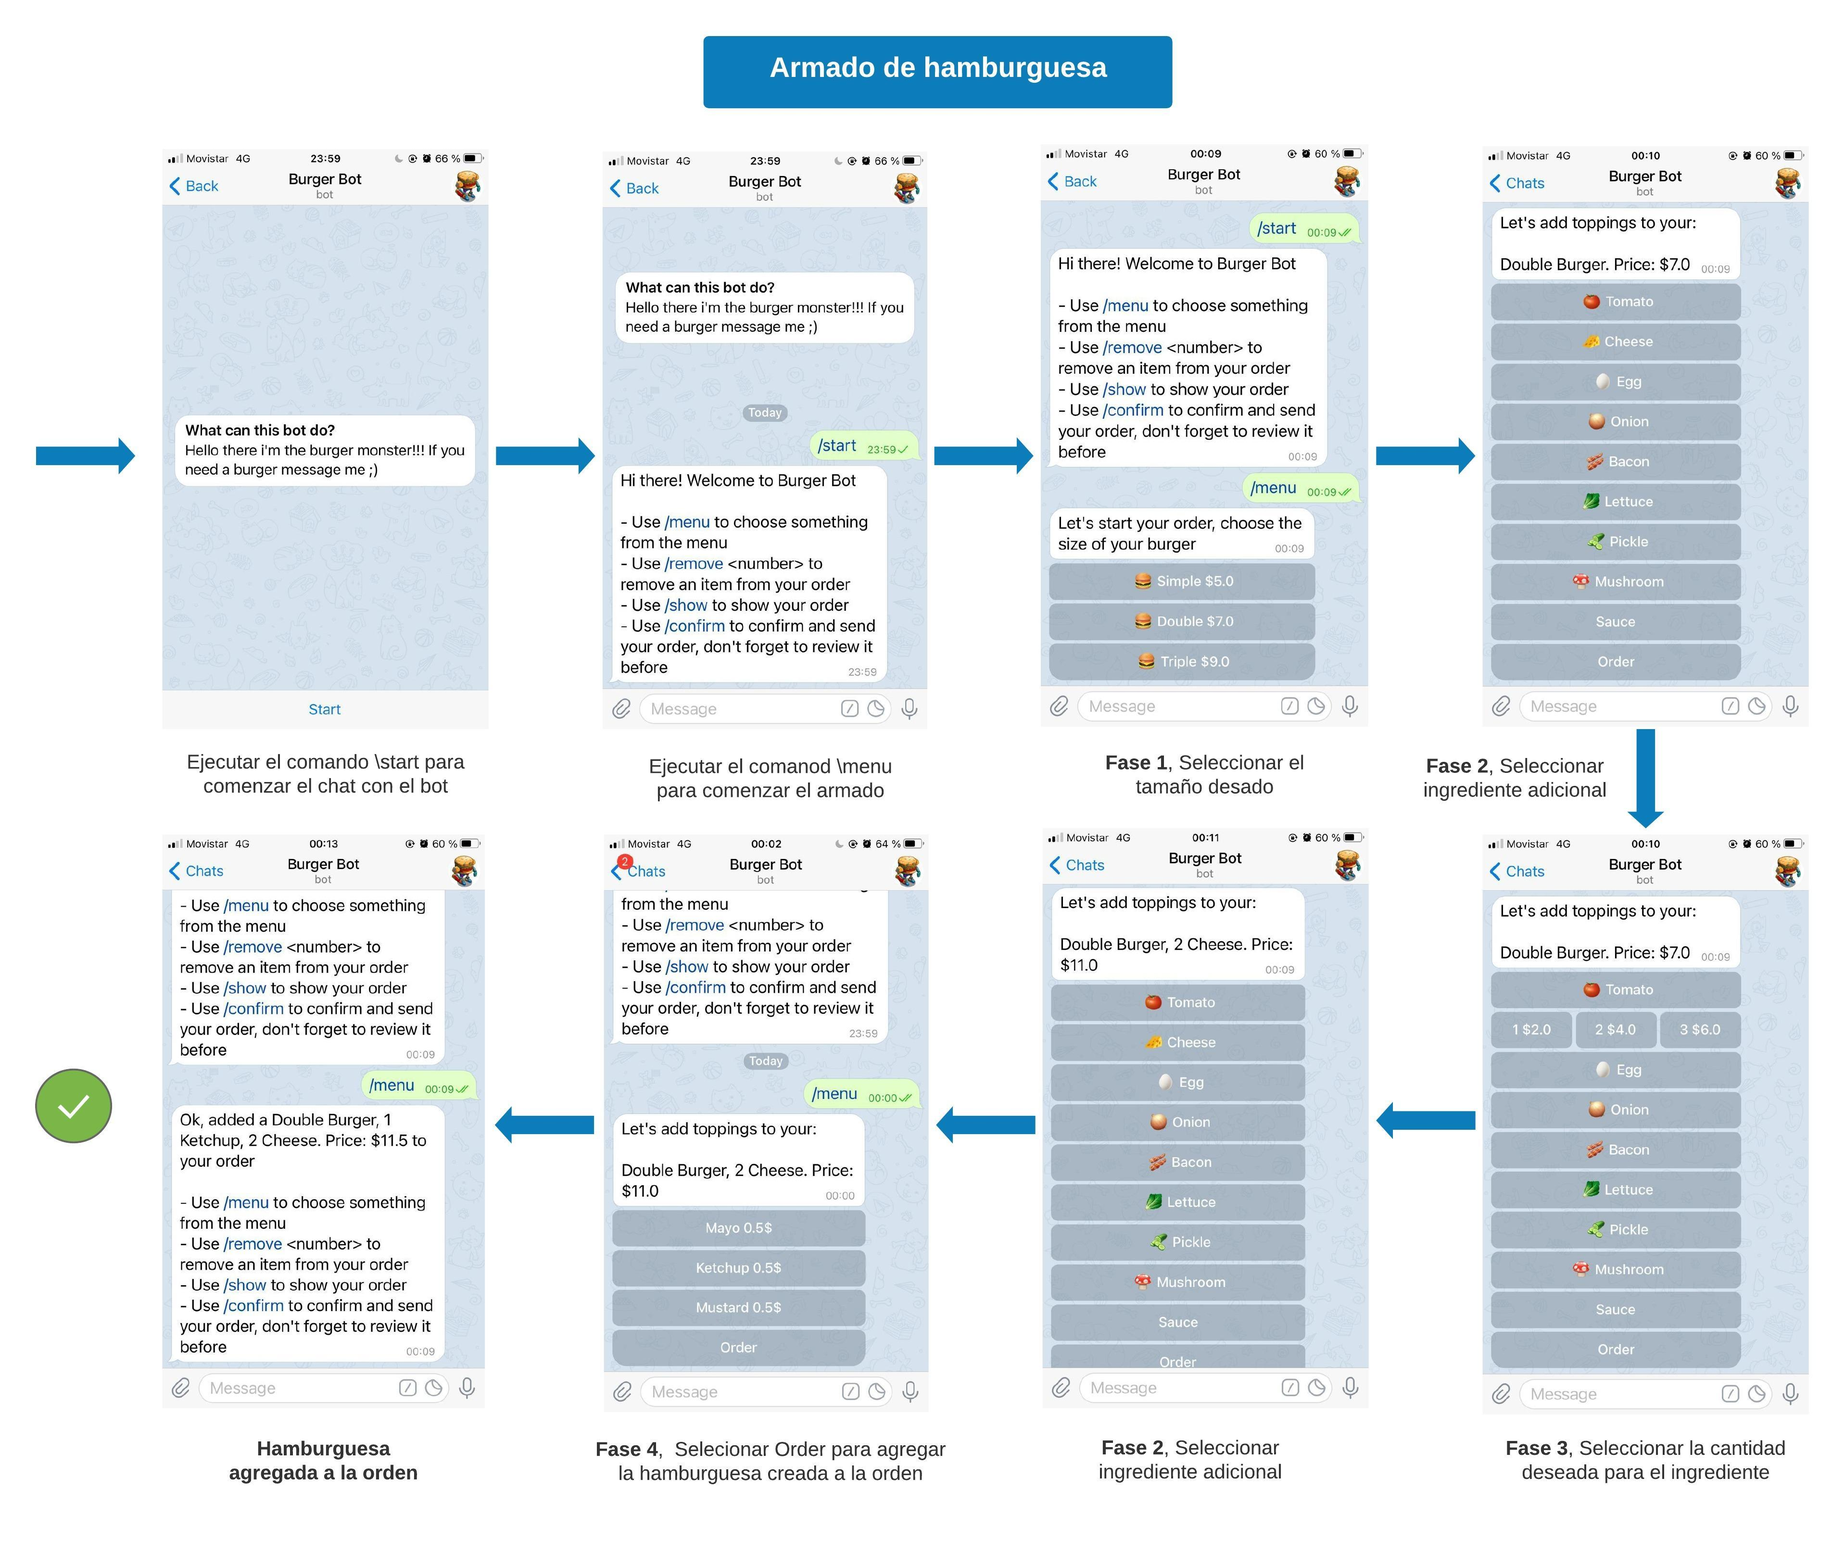
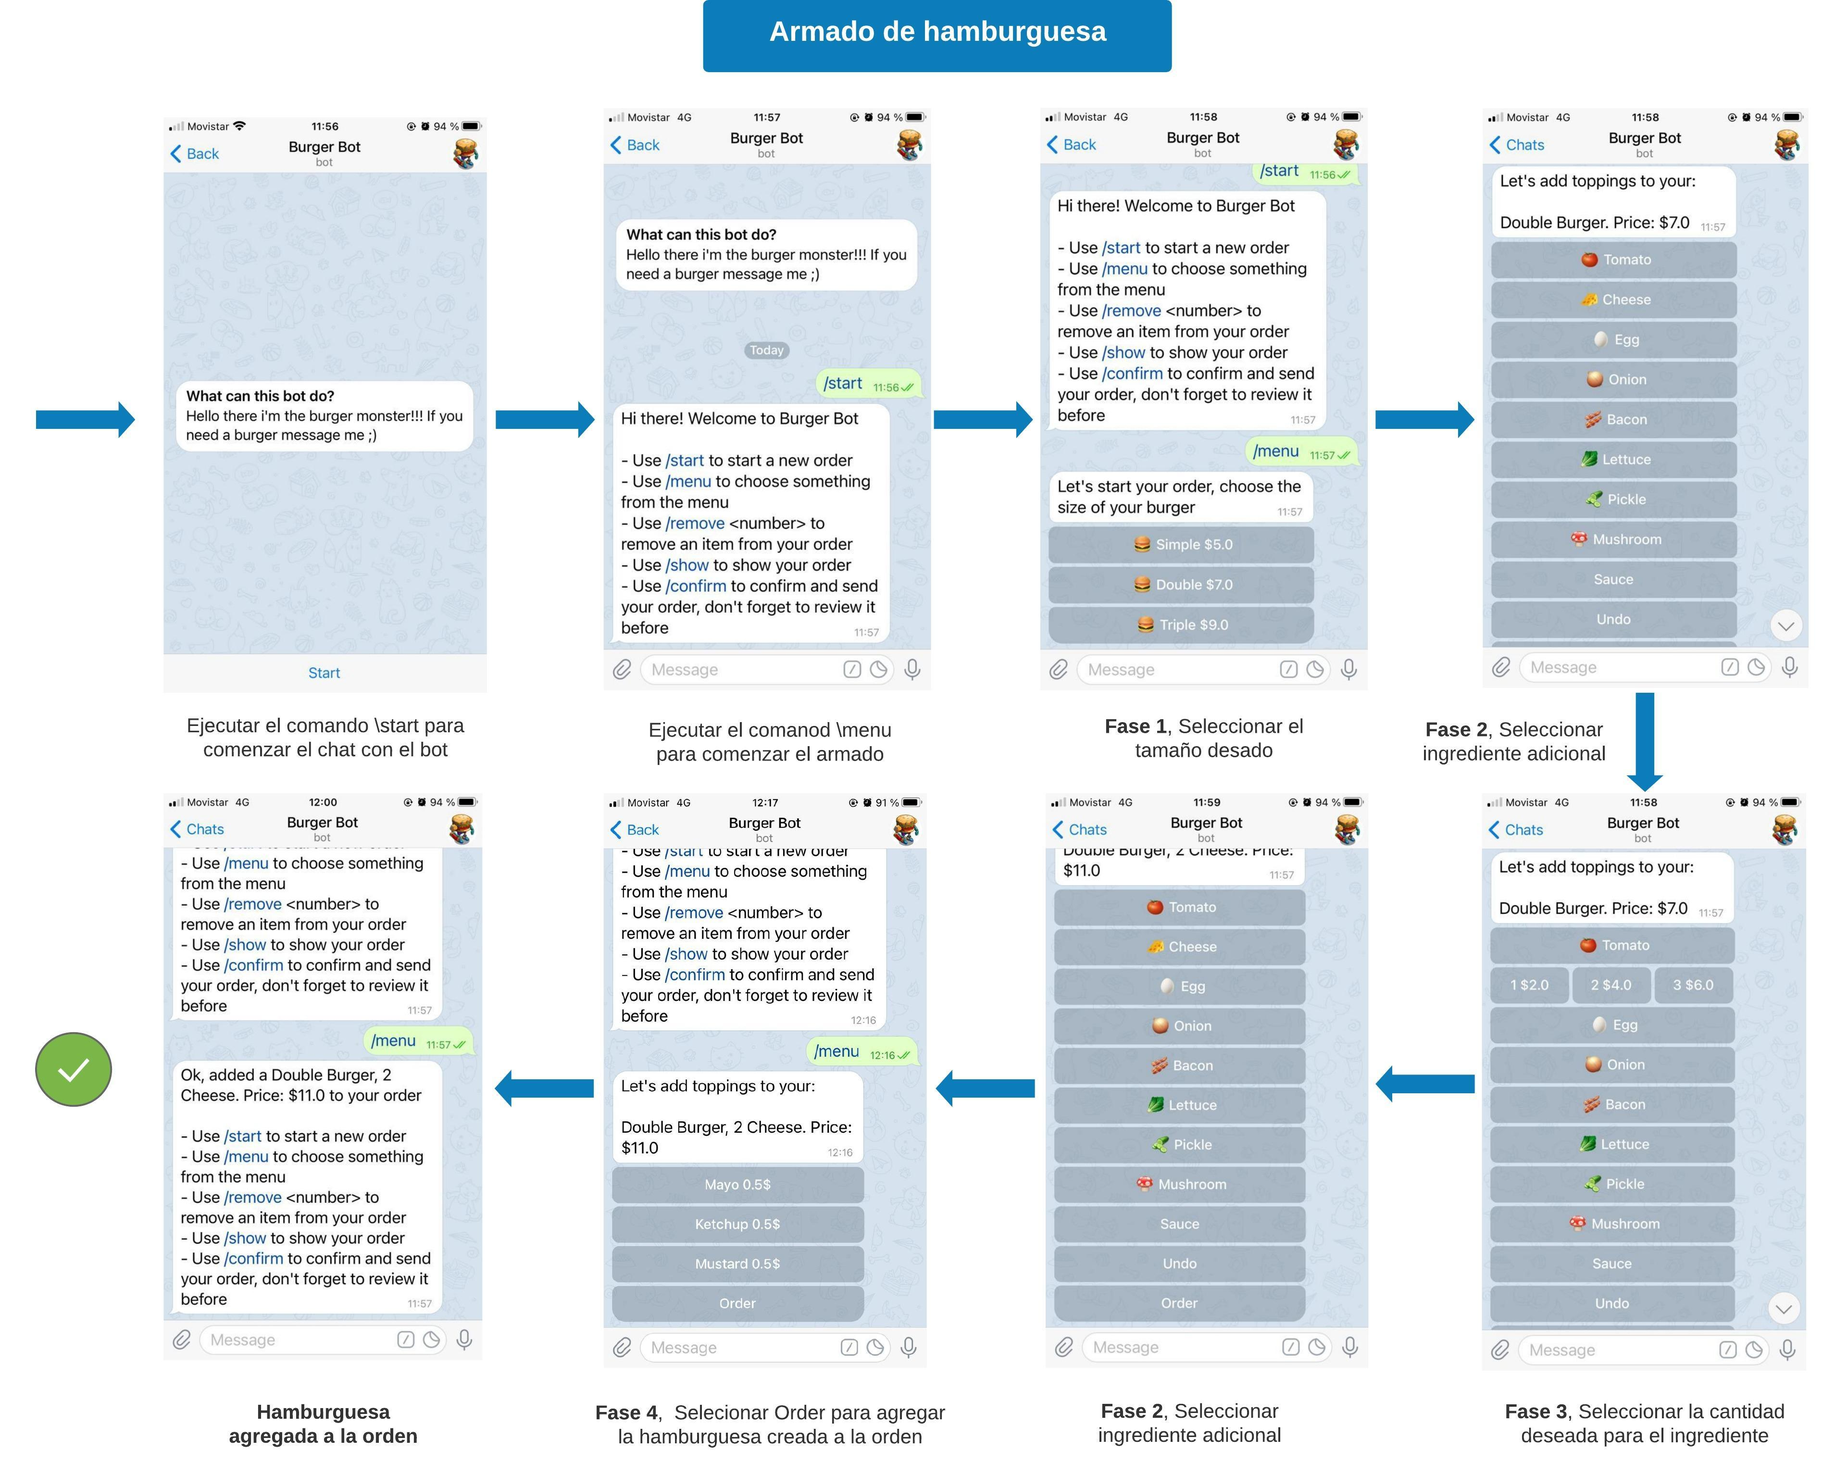
Updated Informe.tex

Changed region(s): [[0.0, 0.0, 0.9927, 0.9909], [0.0931, 0.0619, 0.2792, 0.1548], [0.0, 0.6812, 0.062, 0.7741]]

diff --git a/Informe/Informe.tex b/Informe/Informe.tex
@@ -43,6 +43,7 @@ breaklines=true,        % sets automatic line breaking
 breakatwhitespace=false,    % sets if automatic breaks should only happen at whitespace
 escapeinside={\%*}{*)}          % if you want to add a comment within your code
 }
+\setlength{\parindent}{0in}
 \usepackage{titling}
 \newcommand{\subtitle}[1]{%
 	\posttitle{%
@@ -94,7 +95,7 @@ escapeinside={\%*}{*)}          % if you want to add a comment within your code
 
 El contexto actual de pandemia genera una necesidad en la sociedad de reinventarse. En el caso particular de la hamburguesería Arredondo para disminuir la circulación y contacto entre personas en la sucursal se optó por tomar los pedidos de los clientes vía WhatsApp. 
 \\
-La solución adoptada necesita de la adquisición de por lo menos un número telefónico y un smartphone, el cual sería utilizado por un empleado para tomar los pedidos y hacer entrega de la comanda a la cocina. La disponibilidad del mismo es esencial para brindar un buen servicio. 
+La solución adoptada necesita de la adquisición de por lo menos una línea  telefónica y un smartphone, el cual sería utilizado por un empleado para tomar los pedidos y hacer entrega de la comanda a la cocina. La disponibilidad del mismo es esencial para brindar un buen servicio. 
 \\
 El enfoque del trabajo consiste en tomar la propuesta de Arredondo y convertirla en una de mayor eficiencia en términos de costo, recursos, tiempo, empleados y que maximice las ventas.  
 
@@ -115,7 +116,7 @@ Es importante que tanto los clientes jóvenes como los adultos que atienden la h
 \\\\
 Para comenzar a pedir hamburguesas se necesita tener instalada la aplicación de mensajería Telegram. Los comandos del bot se ejecutan enviando un mensaje de texto que comience con “\textbackslash”.
 \\
-Dentro de la aplicación comenzamos una conversación con el chatbot y para realizar pedidos nuevos utilizaremos el comando  \color{blue}\uline{\textbackslash start}\color{black}.
+Dentro de la aplicación comenzamos una conversación con el chatbot y realizamos nuevos pedidos utilizando el comando  \color{blue}\uline{\textbackslash start}\color{black}.
 \begin{figure}[H]
 	\centering
 	\includegraphics[width=1.0\linewidth]{diagrama-flujo.jpeg}
@@ -132,7 +133,7 @@ A continuación detallaremos las fases del proceso de armado de la hamburguesa.
 	
 	\item \textbf{Fase 1}: El primer paso consiste en seleccionar el tamaño deseado para nuestra hamburguesa, puede ser simple, doble o triple.
 	
-	\item \textbf{Fase 2}: Una vez seleccionado el tamaño de la hamburguesa procedemos a elegir los ingredientes adicionales, entre ellos: queso, pepinos, tomate, lechuga, salsa, etc. 
+	\item \textbf{Fase 2}: Una vez seleccionado el tamaño de la hamburguesa procedemos a elegir los ingredientes adicionales, entre ellos: queso, pepinos, tomate, lechuga, salsa, etc. O también deshacer la última operación.
 	
 	\item \textbf{Fase 3}: Una vez seleccionado el ingrediente deseado procedemos a elegir la cantidad deseada del mismo. Una vez seleccionada la cantidad volveremos a la Fase 2, lo cual nos permite seguir agregando otros ingredientes.
 	
@@ -166,7 +167,7 @@ el cual aporta ayuda sobre los distintos comandos y cómo comenzar un pedido.
 
 \subsection{Aplicación Web}
 
-El personal del restaurante podrá visualizar y mantener registro de los pedidos de los clientes accediendo a la aplicación web disponible en la red local.
+El personal del restaurante podrá visualizar y mantener registro de los pedidos de los clientes accediendo a la aplicación web.
 \\
 Bajo la sección “Pending Orders” se podrá realizar un seguimiento de las órdenes enviadas por los clientes que aún no fueron completadas. Las mismas se encuentran ordenadas desde la más antigua a la más reciente, dándole prioridad a aquellos que realizaron antes su pedido.
 
@@ -219,48 +220,69 @@ Una hamburguesa puede ser simple, doble o triple. A su vez se le pueden agregar 
 
 \subsection{Chatbot	}
 
-A la hora de implementar el chatbot se tuvo decidir entre las plataformas WhatsApp y Telegram. Por un lado WhatsApp es la aplicación de mensajería más adoptada a nivel global y la que utiliza Arredondo para comunicarse con sus clientes. A diferencia, Telegram no es una aplicación popular, sin embargo telegram-bot-simple \cite{telegram-bot-simple} es una librería escrita en Haskell basada en la Telegram Bot API \cite{telegram-bot-api} que nos permite crear bots para Telegram. Por estas razón se optó por desarrollar el chatbot en Telegram.
+A la hora de implementar el chatbot se tuvo decidir entre las plataformas WhatsApp y Telegram. Por un lado WhatsApp es la aplicación de mensajería más adoptada a nivel global y la que utiliza Arredondo para comunicarse con sus clientes.
 \\
-Telegram-bot-simple requiere de definir dos tipos en Haskell. Uno al cual nombramos \textbf{BotModel} que representa el estado de una conversación del bot. El otro representa las acciones que ejecuta el bot, a el cual nombramos \textbf{Action}.
+A diferencia, Telegram no es una aplicación popular, sin embargo telegram-bot-simple \cite{telegram-bot-simple} es una librería desarrollada en Haskell basada en la Telegram Bot API \cite{telegram-bot-api} que nos permite crear bots para Telegram. Por estas razón se optó por desarrollar el chatbot en Telegram.
+\\
+Telegram-bot-simple posee constructor \textbf{BotApp} parametrizada por dos tipos \textbf{model} y \textbf{action} para crear bots.
 
 \begin{minted}{haskell}
+data BotApp model action = BotApp
+{	 botInitialModel :: model
+	, botAction       :: Telegram.Update -> model -> Maybe action
+	, botHandler      :: action -> model -> Eff action model
+	, botJobs         :: [BotJob model action]
+}
+\end{minted}
+
+\begin{itemize}
+	\item \textbf{botInitialModel}: Estado inicial del bot (\textbf{model}).
+	\item \textbf{botAction}: Toma updates de Telegram y los convierte en acciones (\textbf{action}).
+	\item \textbf{botHandler}: Maneja las acciones emitidas (\textbf{action}), retorna un nuevo estado de conservación del bot (\textbf{model}) y la próxima acción a realizar.
+	\item \textbf{botJobs}: Lista de trabajos a ejecutar según un cronograma. No utilizaremos esta funcionalidad.
+\end{itemize}
+
+Entonces se definieron dos nuevos tipos: \textbf{BotModel} que representa el estado de una conversación del bot y \textbf{Action} representando las acciones que ejecutara el bot.
+
+\begin{minted}{haskell}
+data Prices = Prices {
+	toppingsPrices  :: [(Topping, Double)],
+	burgersPrices   :: [(Burger, Double)]
+} deriving (Show)
+
 data BotModel = BotModel {
 	burgers         :: [Burger],
 	currentBurger   :: Maybe Burger,
-	prices          :: Prices
+	prices          :: Prices,
+	actions         :: [Burger]
 } deriving (Show)
 
 data Action = DoNothing | Start  | BurgerMenu | ToppingMenu (Maybe Topping) |
 	SauceMenu  | AddBurger Burger | AddTopping Topping Int | Order |
-	Confirm (Maybe Client)  | Remove Text  | ShowOrder  | Help  
+	Confirm (Maybe Client)  | Remove Text  | ShowOrder  | Help  | Undo
 	deriving (Show, Read)
 \end{minted}
 
-A la hora de crear nuestro \textbf{BotApp}, el constructor de la librería que requiere de 4 parámetros.
-
-\begin{itemize}
-	\item \textbf{botInitialModel}: Estado inicial del bot (\textbf{BotModel}).
-	\item \textbf{botAction}: Toma updates de Telegram y los convierte en acciones (\textbf{Action}).
-	\item \textbf{botHandler}: Maneja las acciones emitidas (\textbf{Action}), retorna un nuevo estado de conservación del bot (\textbf{BotModel}) y la próxima a acción a realizar.
-	\item \textbf{botJobs}: Lista de trabajos a ejecutar según un cronograma. No utilizaremos esta funcionalidad.
-\end{itemize}
-
-\textit{burgersPrices} y \textit{toppingPrices} son listas de tipo  \textbf{[(Burger, Double)]} y \textbf{[(Topping, Double)]} respectivamente. Almacenan los precios correspondientes a cada ingrediente adicional y tamaño de hamburguesa. Estos precios son tomados mediante una consulta a la base de datos. Se decidió tomar estos valores al iniciar el bot y almacenarlos  en el estado con el fin de evitar realizar repetidas consultas a la base de datos cada vez que se necesite obtener el precio de algún elemento.
+Finalmente creamos el bot con la siguiente función:
 
 \begin{minted}{haskell}
 getBot :: IO (BotApp BotModel Action)
 getBot = do
-burgersPrices <- selectBurgersPrices
-toppingsPrices <- selectToppingsPrices
-let bot = BotApp  { botInitialModel = BotModel [] Nothing $ 
-		Prices toppingsPrices burgersPrices
-	, botAction = flip handleUpdate
-	, botHandler = handleAction
-	, botJobs = []  }
-return bot    
+	burgersPrices <- selectBurgersPrices
+	toppingsPrices <- selectToppingsPrices
+	let bot = BotApp  { 
+		botInitialModel = BotModel $ 
+			[] Nothing (Prices toppingsPrices burgersPrices) []
+		, botAction = flip handleUpdate
+		, botHandler = handleAction
+		, botJobs = []  
+	}
+	return bot       
 \end{minted}
-	
-Las acciones del bot pueden ser accionadas mediante comandos enviados como mensaje de texto por el usuario o por una acción de callback llamada al cliquear alguno de los botones disponibles.
+
+\textit{burgersPrices} y \textit{toppingPrices} son listas de tipo  \textbf{[(Burger, Double)]} y \textbf{[(Topping, Double)]} respectivamente. Almacenan los precios correspondientes a cada ingrediente adicional y tamaño de hamburguesa. Estos precios son tomados mediante una consulta a la base de datos. Se decidió tomar estos valores al iniciar el bot y almacenarlos  en el estado de la conversación con el fin de evitar realizar repetidas consultas a la base de datos cada vez que se necesite obtener el precio de algún elemento.
+\\\\
+Las acciones del bot pueden ser accionadas mediante comandos enviados como mensaje de texto por el usuario o por una acción de callback llamada al cliquear alguno de los botones disponibles en formato “inline keyboard” .
 
 \begin{minted}{haskell}
 handleUpdate :: BotModel ->  Telegram.Update -> Maybe Action
@@ -293,7 +315,7 @@ A continuación detallaremos sobre el diseño de cada acción.
 	. No altera el estado del bot. Comienza el proceso de creación de la hamburguesa enviando al usuario una serie de botones en formato “inline keyboard” para seleccionar el tamaño deseado de su hamburguesa. Su próxima acción es \textbf{DoNothing}.
 	
 	\item
-	\textbf{AddBurger  \color{blue}Burger\color{black}}: Accionado como callback al cliquear sobre un botón inline de tamaño de hamburguesa. Almacena la hamburguesa seleccionada en la variable \textit{currentBurger} de nuestro \textbf{BotModel} y lo retorna como nuevo estado.  Su próxima acción es \textbf{ToppingMenu}.
+	\textbf{AddBurger  \color{blue}Burger\color{black}}: Accionado como callback al cliquear sobre un botón inline de tamaño de hamburguesa. Almacena la hamburguesa seleccionada en la variable \textit{currentBurger} y la apila en la pila \textit{actions} de nuestro \textbf{BotModel} y lo retorna como nuevo estado.  Su próxima acción es \textbf{ToppingMenu}.
 	
 	\item
 	\textbf{ToppingMenu \color{blue}(Maybe Topping)\color{black}}: No altera el estado del bot. Envía al usuario una serie de botones en formato “inline keyboard” para seleccionar los ingredientes adicionales, al cliquear en uno se despliega una nueva serie de botones que permiten elegir la cantidad del mismo. Su próxima acción es \textbf{DoNothing}.
@@ -302,7 +324,7 @@ A continuación detallaremos sobre el diseño de cada acción.
 	\textbf{SauceMenu}: No altera el estado del bot. Funciona como una extensión del menú de ingredientes adicionales para evitar el extenso contenido en un mismo lugar. Aquí solo se encuentran las salsas, por lo que envía al usuario una serie de botones en formato “inline keyboard” para seleccionar la salsa deseada. Su próxima acción es \textbf{DoNothing}.
 	
 	\item
-	\textbf{AddTopping \color{blue}Topping Int\color{black}}: Accionado como callback una vez seleccionado el ingrediente adicional y su cantidad en el menú de botones inline. Modifica el estado de nuestro \textbf{BotModel} agregando una capa a la hamburguesa almacenada en la variable \textit{currentBurger} y lo retorna como nuevo estado. Su próxima acción es \textbf{ToppingMenu}, así el usuario puede seguir agregando más ingredientes a su hamburguesa.
+	\textbf{AddTopping \color{blue}Topping Int\color{black}}: Accionado como callback una vez seleccionado el ingrediente adicional y su cantidad en el menú de botones inline. Modifica el estado de nuestro \textbf{BotModel} agregando una capa a la hamburguesa almacenada en la variable \textit{currentBurger} y la apila en la pila \textit{actions} y lo retorna como nuevo estado. Su próxima acción es \textbf{ToppingMenu}, así el usuario puede seguir agregando más ingredientes a su hamburguesa.
 	
 	\item
 	\textbf{Order}: Accionado como callback una vez que no se desean agregar más ingredientes adicionales a la hamburguesa, es decir ya está creada según las preferencias del usuario y queremos agregarla a nuestro pedido. Almacena la hamburguesa creada en la lista \textit{burgers} de nuestro \textbf{BotModel} y lo retorna como nuevo estado. Responde con un mensaje de confirmación al usuario y su próxima acción es \textbf{DoNothing}.
@@ -318,9 +340,13 @@ A continuación detallaremos sobre el diseño de cada acción.
 	. Altera el modelo quitando de la lista \textit{burgers} la hamburguesa indicada por parametro.su próxima acción es \textbf{ShowOrder}. 
 	
 	\item
+	\textbf{Undo}
+	Deshace una operacion de \textbf{AddTopping} o \textbf{AddBurger}. Altera el modelo \textbf{BotModel} desapilando de la pila \textit{actions} el ultimo estado de la hamburguesa creada. Luego almacena en la variable \textit{currentBurger} el nuevo ultimo elemneto de la pila \textit{actions} y lo retorna como nuevo estado. Su próxima acción depende del valor de \textit{currentBurger}, según este puede ser \textbf{ToppingMenu} o \textbf{BurgerMenu}.
+	
+	\item
 	\textbf{ShowOrder}: Accionado con el comando 
 	\color{blue}\uline{\textbackslash show}\color{black}
-	. No altera el estado del bot, envía como mensaje de texto al usuario todas las hamburguesas de su orden y su precio. Su próxima acción es \textbf{DoNothing}.
+	. No altera el estado del bot, envía como mensaje de texto al usuario todas las hamburguesas de su orden y su precio. Su próxima acción es \textbf{DoNothing}. 
 	
 	\item
 	\textbf{Help}: Accionado con el comando 
@@ -330,6 +356,35 @@ A continuación detallaremos sobre el diseño de cada acción.
 \end{itemize}
 
 A la hora de diseñar las acciones y su efecto, el tipo \textbf{BotModel} e implementar la función \textit{handleAction} se tuvo que optar por incluir en \textbf{BotModel} la variable \textit{currentBurger}. Esta decisión se tomó debido a que telegram-bot-simple permite un máximo de 64 bytes a ser enviados en una acción de callback. Si deseamos enviar el dato \textit{currentBurger} como parámetro en una acción de callback la cantidad de ingredientes adicionales a agregar sería limitada.
+\\
+Se utilizaron State Monads para implementar funciones que modifiquen el estado del \textbf{BotModel} y retornar un valor, como también encadenar las operaciones con la notación do. Esto se debe a que las State Monads determinan cuál debe ser el estado después de la primera operación. Luego, resuelve la segunda operación con el nuevo estado y así sucesivamente hasta finalizar. 
+\\\\
+Ejemplo:
+
+\begin{minted}{haskell}
+setCurrentBurger :: Burger -> State BotModel Burger
+setCurrentBurger burger = state (\model -> (burger , model {
+	actions = [], 
+	currentBurger = Just burger 
+}))
+
+
+initBurger :: Burger -> State BotModel Burger
+initBurger burger = do 
+	setCurrentBurger burger
+	push burger
+	return burger
+
+
+push :: Burger -> State BotModel Burger
+push action = state (\model -> 
+	(action, model {actions = actions model ++ [action]}))
+
+
+handleAction (AddBurger burger) model = execState (initBurger burger) model 
+	<# do return (ToppingMenu Nothing)
+
+\end{minted}
 
 \subsection{Aplicación Web}
 
@@ -381,11 +436,13 @@ Telegram Bot Api permite crear bots que acepten pagos, sin embargo esta funciona
 \\\\
 Con el fin de mejorar la experiencia del cliente, el chatbot podría ofrecer mensajes de seguimiento. Como por ejemplo notificarle cuando su pedido comenzó a prepararse en la cocina y cuando está en camino a su mesa.
 \\\\
-Por último se puede agregar un botón de “undo“ a la hora de crear una hamburguesa para poder deshacer errores cometidos en el proceso.
+Por último se podría ampliar el menú agregando bebidas y otros productos.
 
 \subsection{Aplicación Web}
 
-El principal objetivo del proyecto consistió en la realización del chatbot por lo que se imitó a que la aplicación web sea sencilla y de rápido desarrollo. Carece de diversas funcionalidades como por ejemplo credenciales de acceso para los empleados del restaurante.
+El principal objetivo del proyecto consistió en la realización del chatbot por lo que se limitó a que la aplicación web sea sencilla y de rápido desarrollo. Carece de diversas funcionalidades como por ejemplo credenciales de acceso para los empleados del restaurante.
+\\\\
+En el futuro se podría usar los datos almacenados para generar reportes, gráficos y análisis estadístico de tendencias del consumo, ventas, control del stock de ingredientes.
 
 \section{Conclusiones}
 
